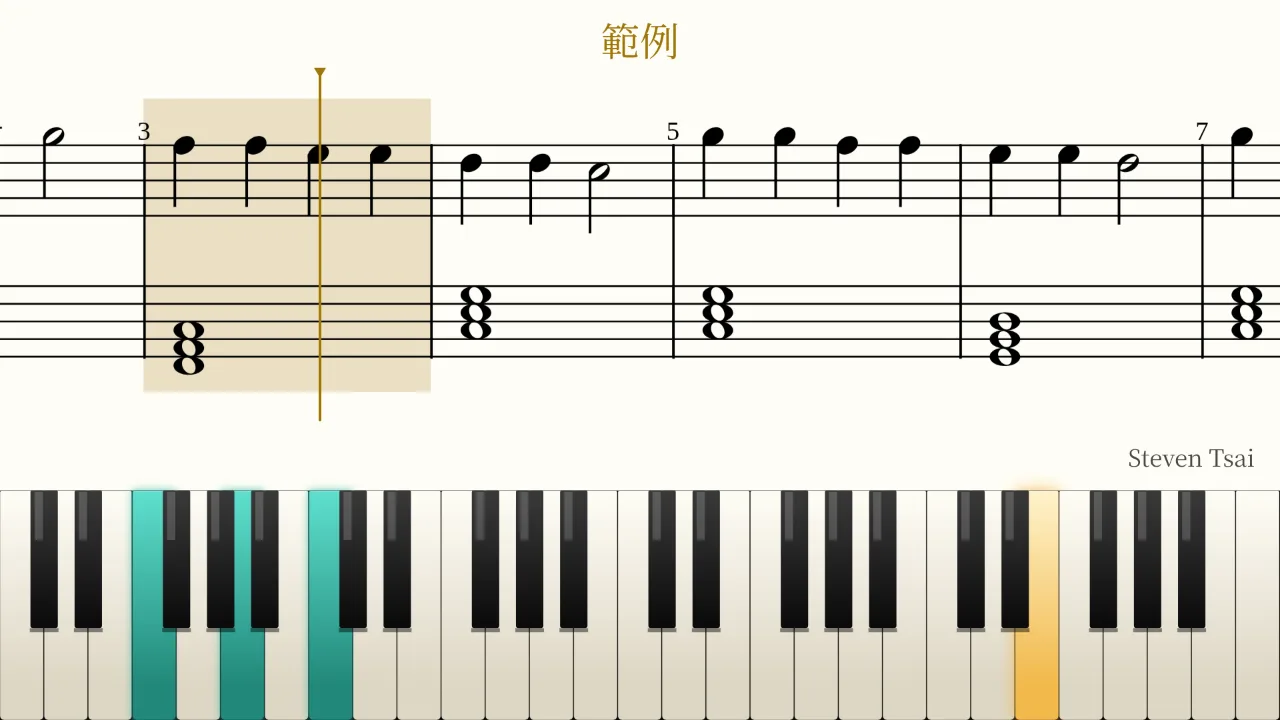
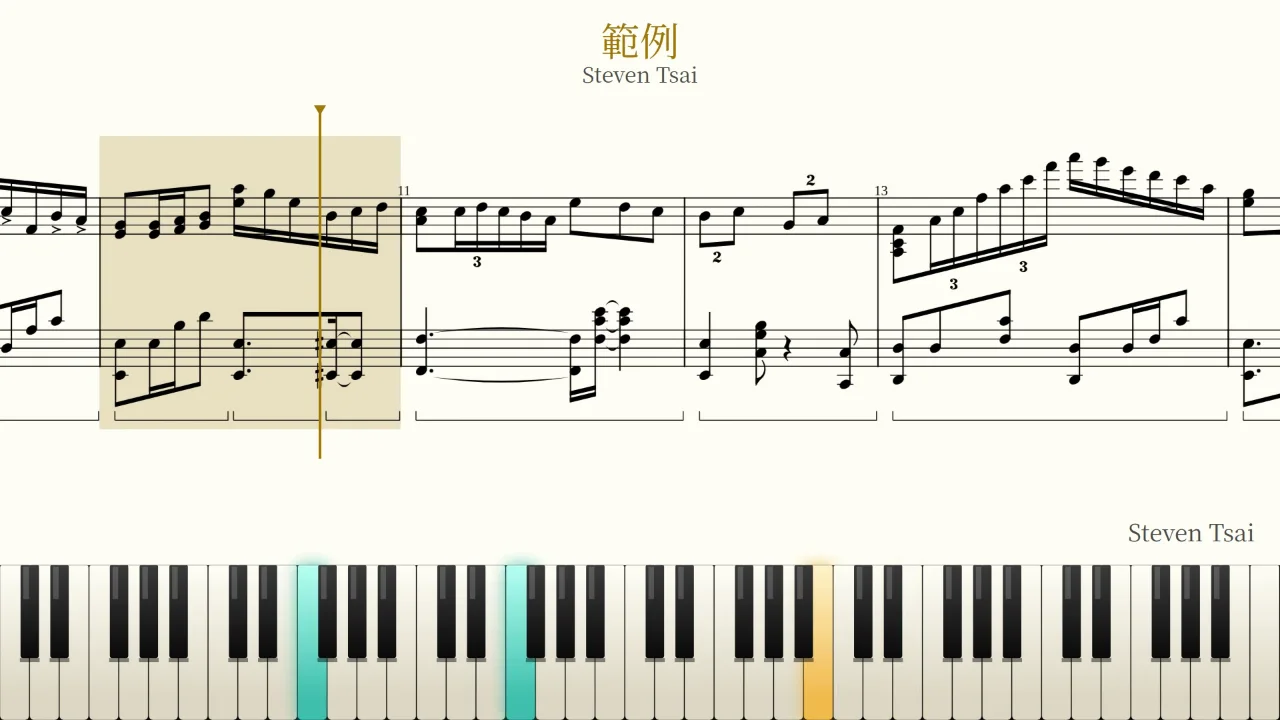
Use a frame from a real export of the supplied score in the hero
The first carousel slide was a preview frame of the built-in Twinkle sample.
It is now a frame lifted out of an actual exported .webm -- the score you
sent, rendered with the real Salamander piano samples, titled 範例, credited
and watermarked Steven Tsai, with the measure highlight on.

Same renderer either way (drawExportFrame backs both the preview and the
encoder), but this frame comes from the finished file rather than the
preview step, and the piece has far more on the stave than Twinkle did.

alt text updated to describe what is actually in the picture.

diff --git a/index.html b/index.html
@@ -463,7 +463,7 @@ footer{
              aria-label="四個工具的畫面，可左右滑動">
         <div class="slide" data-cap="heroCap1">
           <img class="shot" src="preview/scrollscore-export.webp" width="1280" height="720" fetchpriority="high" decoding="async"
-               data-i18n-attr="alt:altExport" alt="ScrollScore 匯出的 1920x1080 影片畫格：白底樂譜、播放游標、下方鋼琴鍵盤，上方是曲名、右下角是頻道浮水印">
+               data-i18n-attr="alt:altExport" alt="ScrollScore 匯出的 1920×1080 影片畫格：白底樂譜隨拍捲動，播放游標與小節色塊標出目前位置，下方鋼琴鍵盤同步亮起按著的音，上方是曲名與作者、右下角是頻道浮水印">
         </div>
         <div class="slide" data-cap="heroCap2">
           <img class="shot" data-shot="sightscore" src="preview/sightscore-zh.webp" width="1280" height="720" decoding="async"
@@ -673,7 +673,7 @@ const I18N = {
     heroCap2: "SightScore ・ 視奏練習譜",
     heroCap3: "HarmonyMap ・ 和弦與音階",
     heroCap4: "LoudMaster ・ 響度校正",
-    altExport: "ScrollScore 匯出的 1920×1080 影片畫格：白底樂譜、播放游標、下方鋼琴鍵盤，上方是曲名、右下角是頻道浮水印",
+    altExport: "ScrollScore 匯出的 1920×1080 影片畫格：白底樂譜隨拍捲動，播放游標與小節色塊標出目前位置，下方鋼琴鍵盤同步亮起按著的音，上方是曲名與作者、右下角是頻道浮水印",
     altScrollScore: "ScrollScore 操作畫面：樂譜隨拍捲動，鋼琴鍵盤同步標示按下的音",
     altSightScore: "SightScore 操作畫面：依級數與調性生成的視奏練習譜",
     altHarmonyMap: "HarmonyMap 操作畫面：Cmaj7 的組成音標示在鍵盤上，旁邊列出和弦資訊與可搭配的音階",
@@ -730,7 +730,7 @@ const I18N = {
     heroCap2: "SightScore · practice sheet",
     heroCap3: "HarmonyMap · chords and scales",
     heroCap4: "LoudMaster · loudness correction",
-    altExport: "A 1920x1080 frame from a ScrollScore export: the score on white, the playhead, the keyboard below, the piece title above and a channel watermark bottom-right",
+    altExport: "A 1920x1080 frame from a ScrollScore export: the score scrolling with the beat, a playhead and a shaded bar marking the current measure, the keyboard below lighting up the notes being held, the title and composer above and a channel watermark bottom-right",
     altScrollScore: "ScrollScore in use: the score scrolls in time with the beat while the keyboard highlights the notes being played",
     altSightScore: "SightScore in use: a sight-reading sheet generated for the chosen grade and key",
     altHarmonyMap: "HarmonyMap in use: the notes of Cmaj7 highlighted on the keyboard, with chord details and matching scales alongside",
